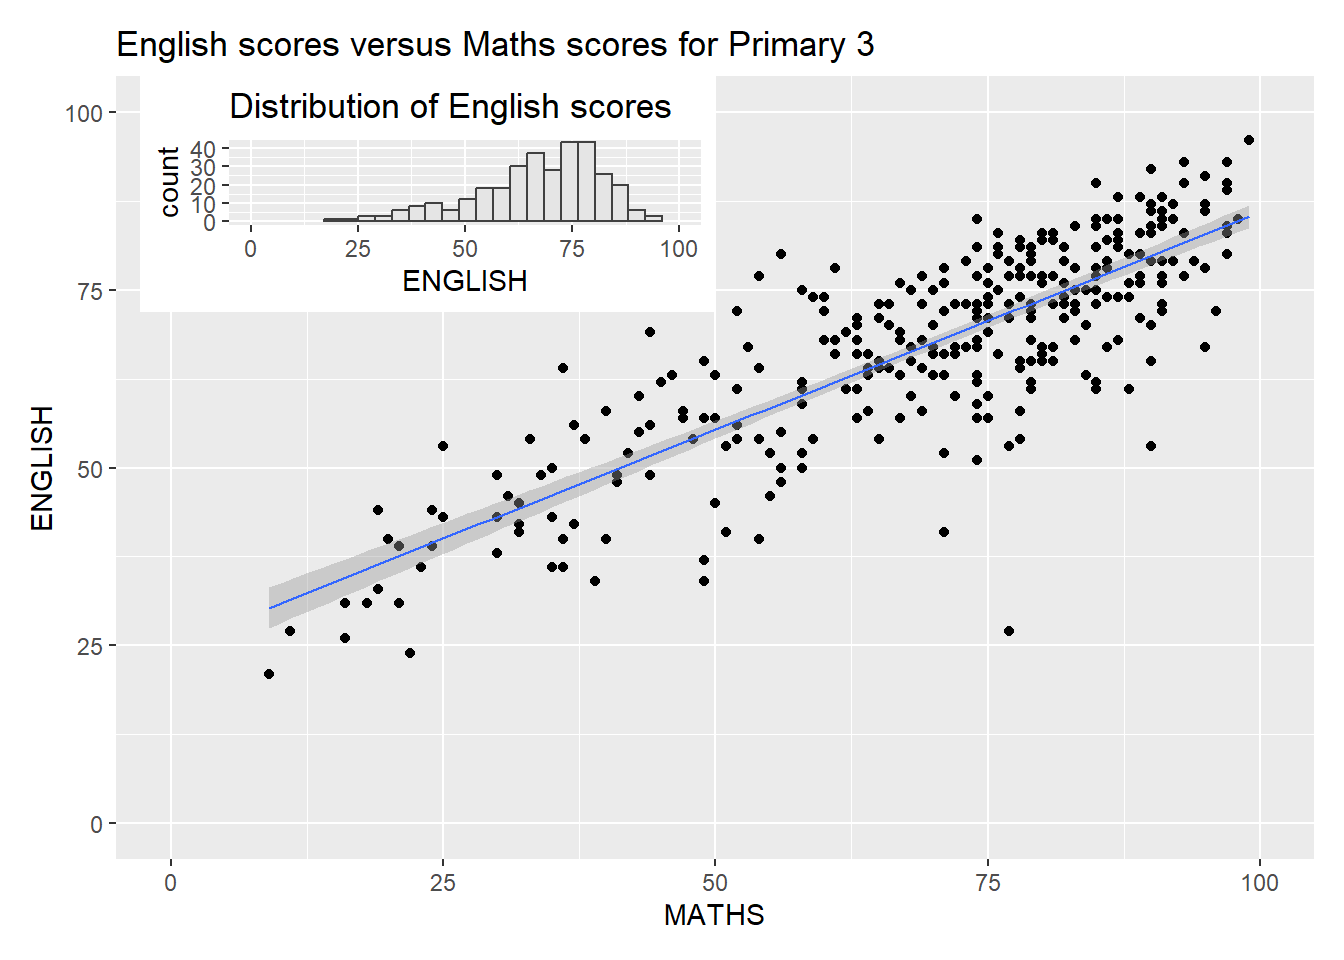
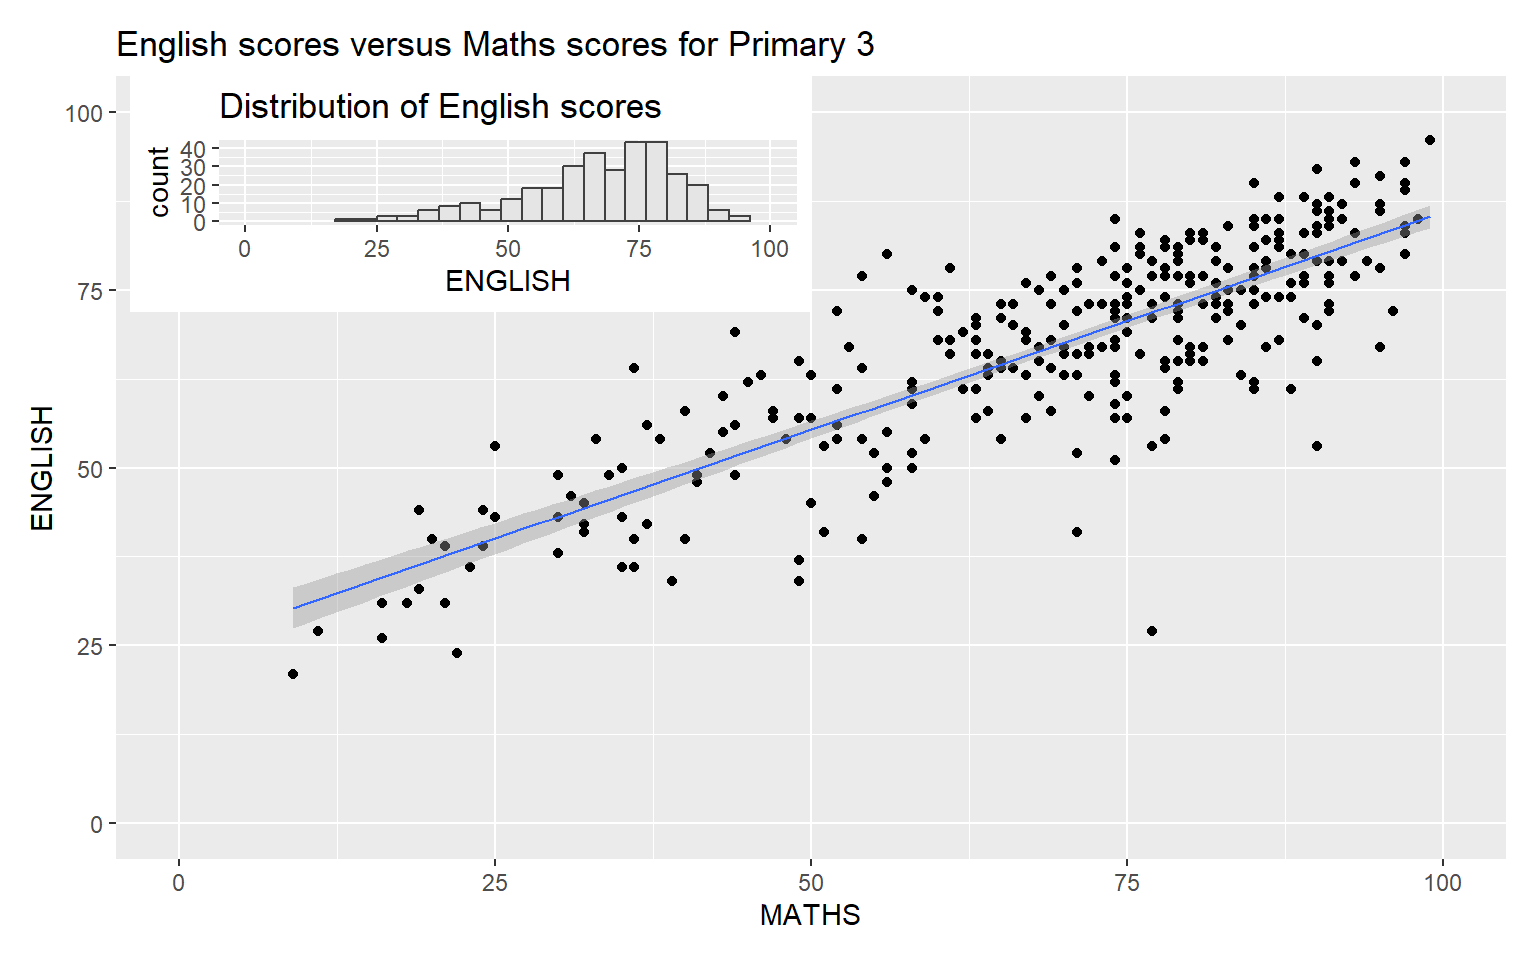
minor fix hands on 2

diff --git a/_site/Hands-on_Ex/Hands-on_Ex02/Hands-on_Ex02.html b/_site/Hands-on_Ex/Hands-on_Ex02/Hands-on_Ex02.html
@@ -266,7 +266,7 @@ window.Quarto = {
     <div>
     <div class="quarto-title-meta-heading">Modified</div>
     <div class="quarto-title-meta-contents">
-      <p class="date-modified">April 26, 2025</p>
+      <p class="date-modified">May 3, 2025</p>
     </div>
   </div>
     
@@ -464,7 +464,7 @@ window.Quarto = {
 <div class="cell-output-display">
 <div>
 <figure class="figure">
-<p><img src="Hands-on_Ex02_files/figure-html/unnamed-chunk-12-1.png" class="img-fluid figure-img" width="672"></p>
+<p><img src="Hands-on_Ex02_files/figure-html/unnamed-chunk-12-1.png" class="img-fluid figure-img" width="1152"></p>
 </figure>
 </div>
 </div>
@@ -496,14 +496,14 @@ It’s also possible to add annotation in patchwork using plot_annotation
 <p>We can add another graph anywhere within a graph using <strong>inset-element()</strong> of patchwork package.</p>
 <div class="cell">
 <div class="sourceCode cell-code" id="cb14"><pre class="sourceCode r code-with-copy"><code class="sourceCode r"><span id="cb14-1"><a href="#cb14-1" aria-hidden="true" tabindex="-1"></a>p3 <span class="sc">+</span> <span class="fu">inset_element</span>(p2, </span>
-<span id="cb14-2"><a href="#cb14-2" aria-hidden="true" tabindex="-1"></a>                   <span class="at">left =</span> <span class="fl">0.02</span>, </span>
+<span id="cb14-2"><a href="#cb14-2" aria-hidden="true" tabindex="-1"></a>                   <span class="at">left =</span> <span class="fl">0.01</span>, </span>
 <span id="cb14-3"><a href="#cb14-3" aria-hidden="true" tabindex="-1"></a>                   <span class="at">bottom =</span> <span class="fl">0.7</span>, </span>
 <span id="cb14-4"><a href="#cb14-4" aria-hidden="true" tabindex="-1"></a>                   <span class="at">right =</span> <span class="fl">0.5</span>, </span>
 <span id="cb14-5"><a href="#cb14-5" aria-hidden="true" tabindex="-1"></a>                   <span class="at">top =</span> <span class="dv">1</span>)</span></code><button title="Copy to Clipboard" class="code-copy-button"><i class="bi"></i></button></pre></div>
 <div class="cell-output-display">
 <div>
 <figure class="figure">
-<p><img src="Hands-on_Ex02_files/figure-html/unnamed-chunk-14-1.png" class="img-fluid figure-img" width="672"></p>
+<p><img src="Hands-on_Ex02_files/figure-html/unnamed-chunk-14-1.png" class="img-fluid figure-img" width="768"></p>
 </figure>
 </div>
 </div>
